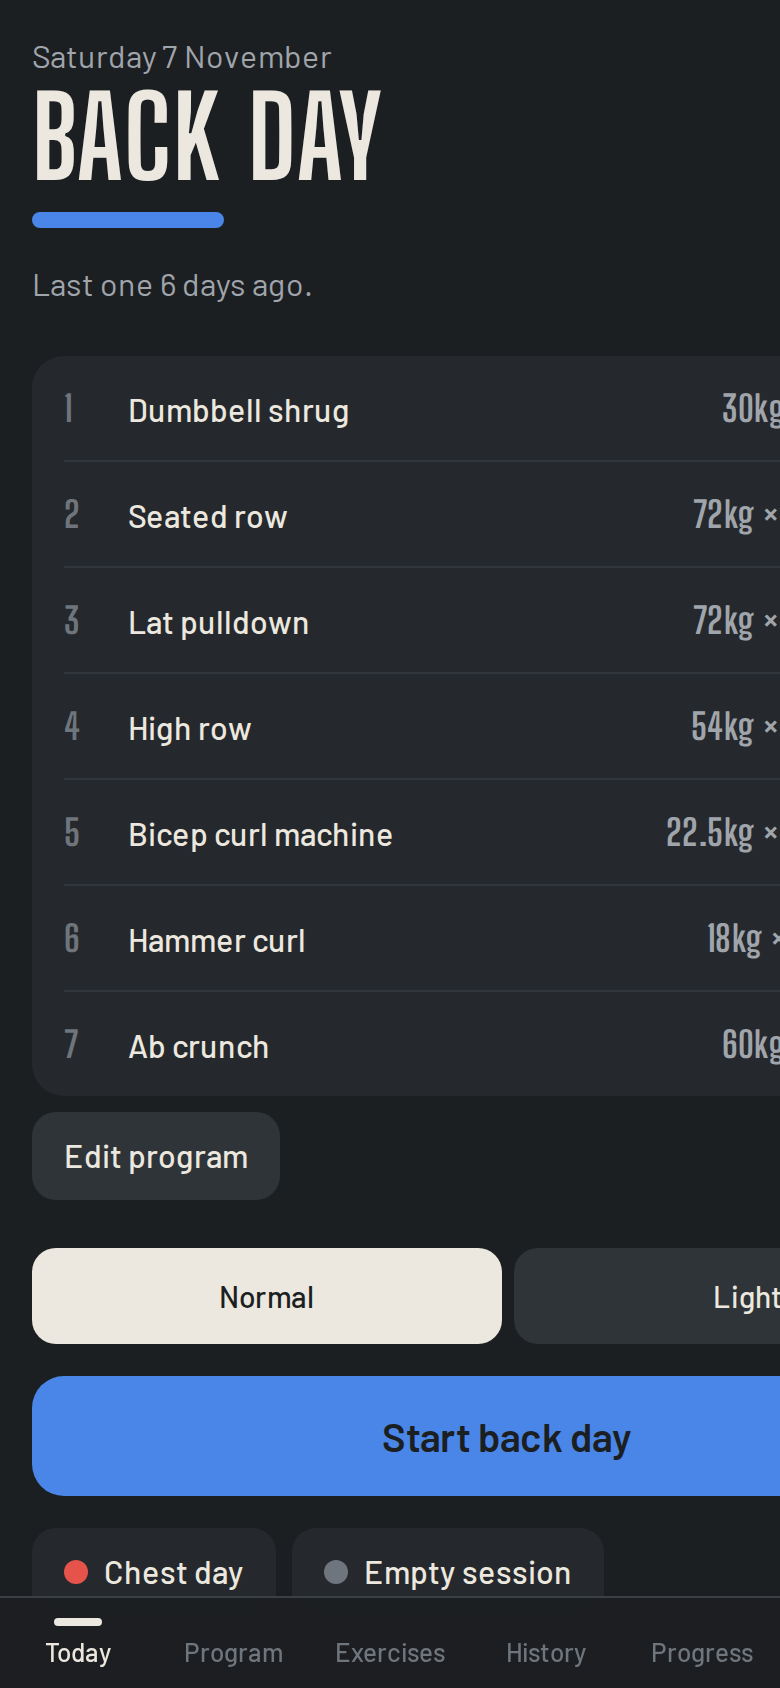
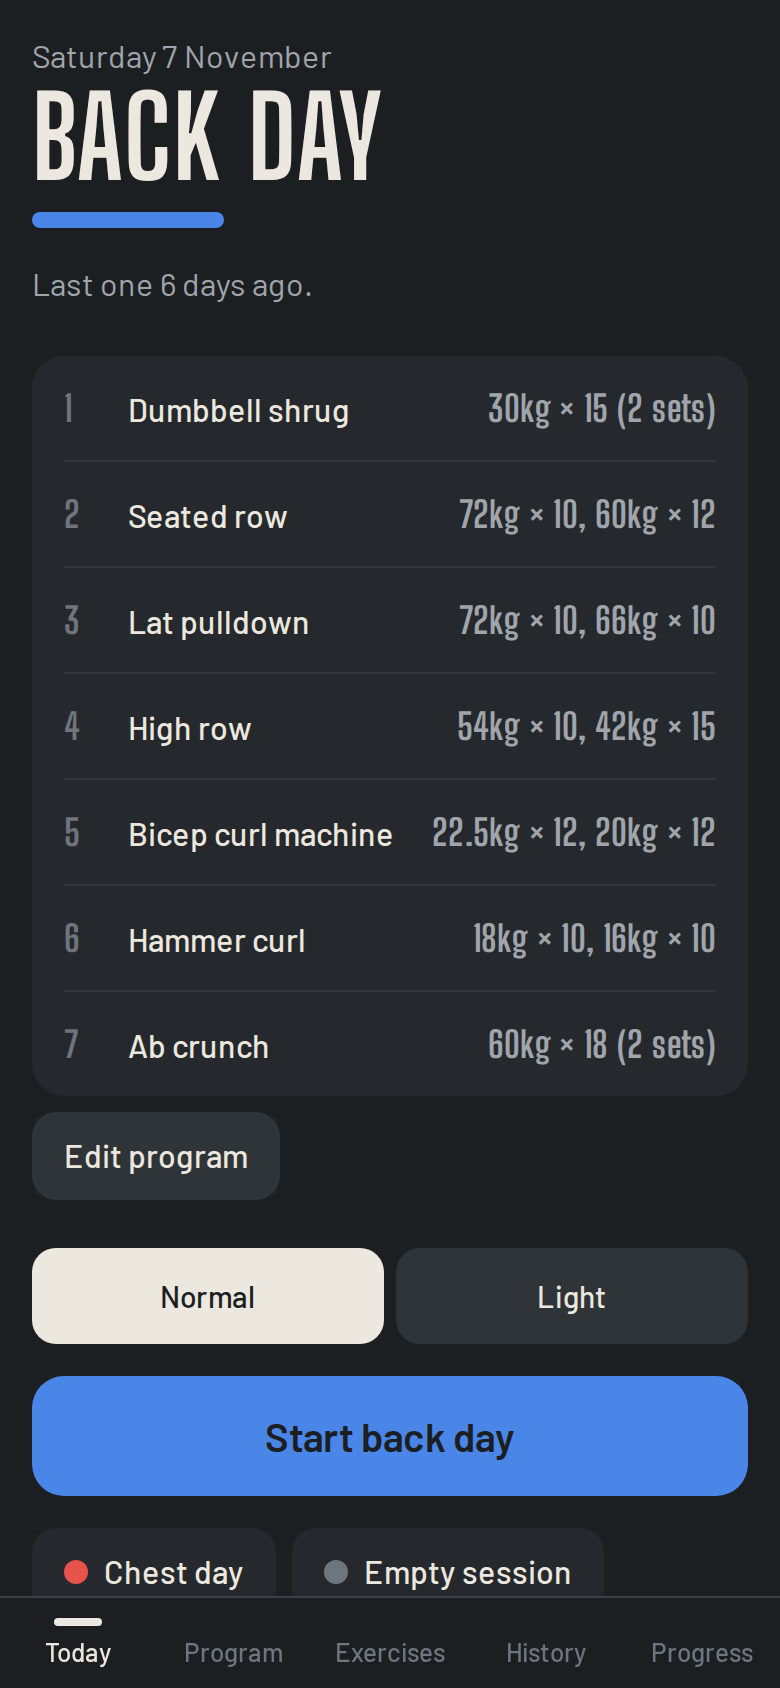
Fix page overflow on phones: long plans wrap between sets, grids get a base column

diff --git a/web/src/components/Today.tsx b/web/src/components/Today.tsx
@@ -97,7 +97,7 @@ function Start({ db, onStart }: { db: DB; onStart: (s: Session) => void }) {
   const color = program ? dayColor(db, day) : "var(--color-chalk)";
 
   return (
-    <div className="grid gap-8 pt-4 pb-10 lg:grid-cols-[minmax(0,1fr)_22rem] lg:pt-8">
+    <div className="grid grid-cols-1 gap-8 pt-4 pb-10 lg:grid-cols-[minmax(0,1fr)_22rem] lg:pt-8">
       <div>
         <p className="text-mute">{today}</p>
         <h1 className="num mt-1 text-[clamp(3.5rem,14vw,6.5rem)] leading-[0.9] uppercase">{label}</h1>
@@ -115,7 +115,10 @@ function Start({ db, onStart }: { db: DB; onStart: (s: Session) => void }) {
                   <li key={ex.id} className="flex items-baseline gap-3 py-3">
                     <span className="num w-5 shrink-0 text-lg text-faint">{i + 1}</span>
                     <span className="min-w-0 flex-1 font-medium">{ex.name}</span>
-                    <span className="num shrink-0 text-right text-lg text-mute">{ts.length ? fmtTargets(ts) : "new"}</span>
+                    <span className="num min-w-0 text-right text-lg text-mute">
+                      {/* Each set stays on one line; a long plan wraps between sets instead of widening the page. */}
+                      {ts.length ? fmtTargets(ts).split(", ").map((t, j, a) => <span key={j} className="whitespace-nowrap">{t}{j < a.length - 1 && ", "}</span>) : "new"}
+                    </span>
                   </li>
                 );
               })}

diff --git a/web/src/components/History.tsx b/web/src/components/History.tsx
@@ -25,7 +25,7 @@ export function HistoryPage({ db }: { db: DB }) {
             <span className="text-faint">{ss.length} sessions</span>
           </h2>
           {month === "From your old notes" && <p className="mb-2 text-sm text-faint">Imported from the iPhone note. Dates are guesses and some numbers may be off. They only seed the starting weights; they don't count in stats.</p>}
-          <div className="grid gap-2 md:grid-cols-2">
+          <div className="grid grid-cols-1 gap-2 md:grid-cols-2">
             {ss.map((s) => {
               const mins = s.end && !s.approx ? Math.round((new Date(s.end).getTime() - new Date(s.date).getTime()) / 60000) : null;
               return (

diff --git a/web/src/components/Progress.tsx b/web/src/components/Progress.tsx
@@ -184,7 +184,7 @@ function ExerciseList({ db }: { db: DB }) {
   const home = (exId: string) => programsWith(db, exId)[0]?.id ?? "other";
   if (!rows.length) return <p className="text-sm text-mute">Log a few sessions and each exercise gets its own trend here.</p>;
   return (
-    <div className="grid gap-6 md:grid-cols-2">
+    <div className="grid grid-cols-1 gap-6 md:grid-cols-2">
       {groups.map((g) => {
         const rs = rows.filter((x) => home(x.e.id) === g.id);
         if (!rs.length) return null;
